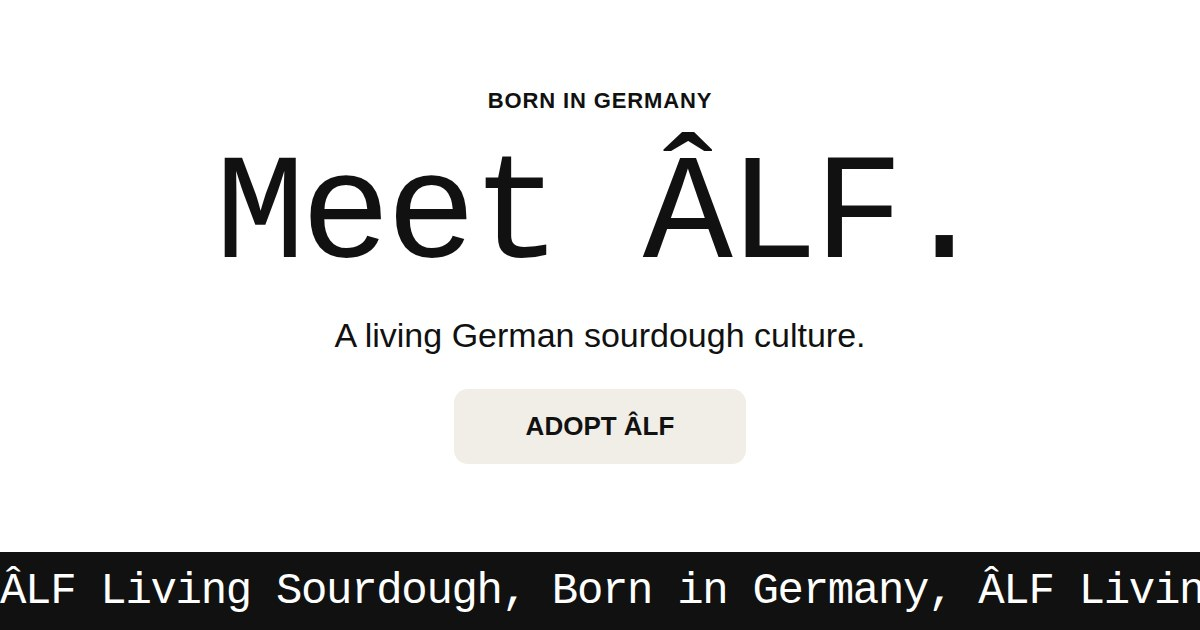
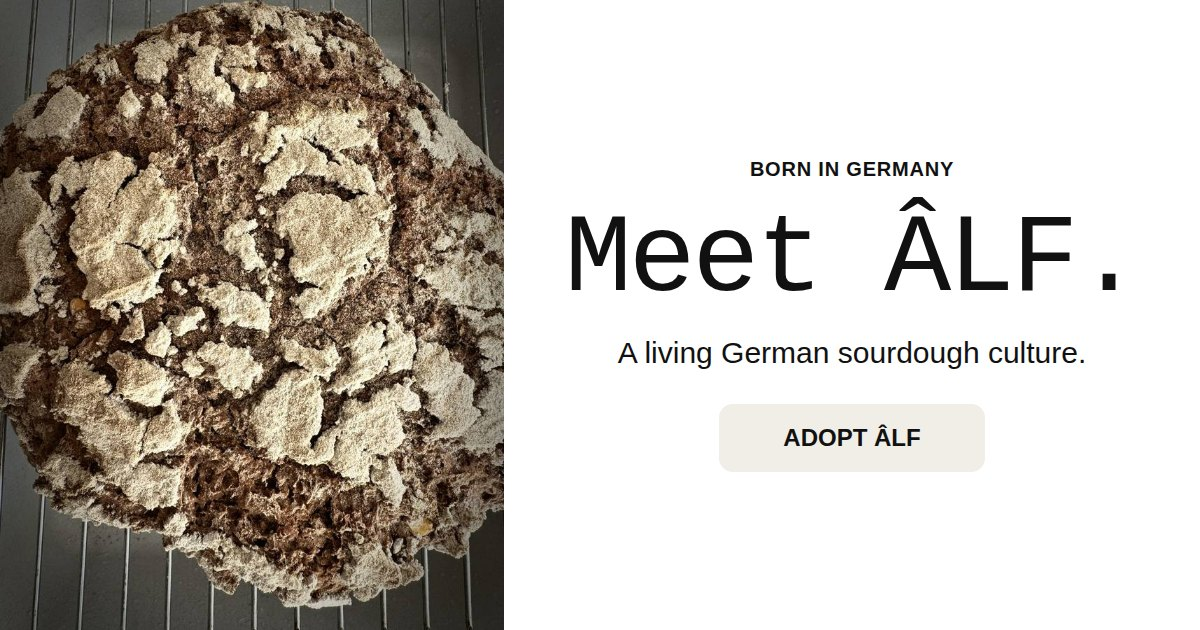
feat: real ÂLF photos — hero loaf and dough → risen → bread series
Paul's own photographs, graded (white balance, tone, 4:5 crop, grain),
nothing generated. Hero photo sizes to the screen so the adopt button
stays on the first screen down to iPhone SE. Share image now shows the
real loaf.

Claude-Session: https://claude.ai/code/session_01Th7kPzDbLiEwaHmKgtP8fL

diff --git a/index.html b/index.html
@@ -31,8 +31,9 @@
     </script>
     <script>document.documentElement.classList.add("js");</script>
     <link rel="icon" href="assets/icon.svg" type="image/svg+xml" />
-    <link rel="stylesheet" href="styles.css?v=3" />
-    <script src="app.js?v=3" defer></script>
+    <link rel="preload" as="image" href="assets/photos/bread-1080.jpg" imagesrcset="assets/photos/bread-720.jpg 720w, assets/photos/bread-1080.jpg 1080w" imagesizes="(min-width: 960px) 50vw, 100vw" />
+    <link rel="stylesheet" href="styles.css?v=4" />
+    <script src="app.js?v=4" defer></script>
   </head>
   <body>
     <a class="skip-link" href="#main">Skip to content</a>
@@ -45,6 +46,9 @@
     <main id="main">
       <!-- HERO -->
       <section class="hero" id="top" aria-labelledby="hero-title">
+        <figure class="hero-photo">
+          <img src="assets/photos/bread-1080.jpg" srcset="assets/photos/bread-720.jpg 720w, assets/photos/bread-1080.jpg 1080w" sizes="(min-width: 960px) 50vw, 100vw" width="1080" height="1350" alt="A loaf baked with ÂLF: rye crust, flour, natural cracks" fetchpriority="high" decoding="async" />
+        </figure>
         <div class="hero-copy">
           <p class="label">Born in Germany</p>
           <h1 id="hero-title" class="mono-xl">Meet ÂLF.</h1>
@@ -88,6 +92,28 @@
             <li class="step"><span class="step-no">08</span><span class="step-title">Bread.</span></li>
           </ol>
           <div class="meter" aria-hidden="true"><span></span></div>
+        </div>
+      </section>
+
+      <!-- FROM ÂLF TO BREAD: Paul's real photographs -->
+      <section class="proof" id="bread" aria-labelledby="proof-title">
+        <header class="section-head">
+          <h2 id="proof-title" class="mono-lg">From ÂLF to bread.</h2>
+          <p class="lede">No knife. No scoring. The cracks are ÂLF's own.</p>
+        </header>
+        <div class="triptych">
+          <figure class="shot">
+            <img src="assets/photos/dough-720.jpg" srcset="assets/photos/dough-720.jpg 720w, assets/photos/dough-1080.jpg 1080w" sizes="(min-width: 720px) 33vw, 80vw" width="1080" height="1350" alt="Rye dough with ÂLF, before fermentation" loading="lazy" decoding="async" />
+            <figcaption>01 Dough.</figcaption>
+          </figure>
+          <figure class="shot">
+            <img src="assets/photos/risen-720.jpg" srcset="assets/photos/risen-720.jpg 720w, assets/photos/risen-1080.jpg 1080w" sizes="(min-width: 720px) 33vw, 80vw" width="1080" height="1350" alt="The same dough, risen: the flour layer breaks open on its own" loading="lazy" decoding="async" />
+            <figcaption>02 Risen.</figcaption>
+          </figure>
+          <figure class="shot">
+            <img src="assets/photos/bread-720.jpg" srcset="assets/photos/bread-720.jpg 720w, assets/photos/bread-1080.jpg 1080w" sizes="(min-width: 720px) 33vw, 80vw" width="1080" height="1350" alt="The finished loaf with its natural cracked crust" loading="lazy" decoding="async" />
+            <figcaption>03 Bread.</figcaption>
+          </figure>
         </div>
       </section>
 

diff --git a/styles.css b/styles.css
@@ -193,28 +193,38 @@ a {
 /* ---------- hero ---------- */
 
 .hero {
-  display: grid;
-  place-items: center;
-  min-height: calc(100vh - 5.5rem);
-  min-height: calc(100svh - 5.5rem); /* the black band peeks in below */
-  padding: calc(var(--bar) + env(safe-area-inset-top) + 2rem) var(--edge) 3rem;
+  padding-top: calc(var(--bar) + env(safe-area-inset-top));
+}
+
+.hero-photo {
+  /* photo takes what is left, so headline + button always fit on the first screen */
+  height: clamp(14rem, calc(100vh - 24rem), 56vh);
+  height: clamp(14rem, calc(100svh - 24rem), 56svh);
+  overflow: hidden;
+  background: var(--night);
+}
+
+.hero-photo img {
+  width: 100%;
+  height: 100%;
+  object-fit: cover;
 }
 
 .hero-copy {
   display: grid;
   justify-items: center;
-  gap: 1.25rem;
-  width: 100%;
+  gap: 1rem;
+  padding: 2.25rem var(--edge) 3rem;
   text-align: center;
 }
 
 .hero .mono-xl {
-  font-size: clamp(3.2rem, 15vw, 9rem);
+  font-size: clamp(3rem, 14vw, 7.5rem);
 }
 
 .hero-line {
-  margin-bottom: 1rem;
-  font-size: clamp(1.15rem, 4.6vw, 1.5rem);
+  margin-bottom: 0.75rem;
+  font-size: clamp(1.1rem, 4.4vw, 1.4rem);
 }
 
 /* ---------- band ---------- */
@@ -389,6 +399,50 @@ a {
   background: var(--night-ink);
   transform: scaleX(var(--p, 0));
   transform-origin: 0 50%;
+}
+
+/* ---------- from ÂLF to bread ---------- */
+
+.proof {
+  padding: clamp(5rem, 16vw, 9rem) var(--edge);
+  text-align: center;
+}
+
+.triptych {
+  display: grid;
+  grid-auto-flow: column;
+  grid-auto-columns: 80%;
+  gap: 0.75rem;
+  margin: 3rem calc(var(--edge) * -1) 0;
+  padding: 0 var(--edge);
+  overflow-x: auto;
+  scroll-snap-type: x mandatory;
+  scroll-padding: 0 var(--edge);
+  scrollbar-width: none;
+  -webkit-overflow-scrolling: touch;
+}
+
+.triptych::-webkit-scrollbar {
+  display: none;
+}
+
+.shot {
+  scroll-snap-align: start;
+}
+
+.shot img {
+  width: 100%;
+  height: auto;
+  aspect-ratio: 4 / 5;
+  border-radius: 0.75rem;
+  object-fit: cover;
+  background: var(--beige);
+}
+
+.shot figcaption {
+  padding-top: 0.8rem;
+  font-family: var(--mono);
+  font-size: 1.1rem;
 }
 
 /* ---------- statement ---------- */
@@ -603,12 +657,41 @@ a {
 /* ---------- tablet + desktop ---------- */
 
 @media (min-width: 720px) {
+  .triptych {
+    grid-auto-flow: row;
+    grid-template-columns: repeat(3, 1fr);
+    max-width: 72rem;
+    margin: 3.5rem auto 0;
+    padding: 0;
+    overflow: visible;
+  }
+
   .ritual {
     grid-template-columns: repeat(2, 1fr);
   }
 }
 
 @media (min-width: 960px) {
+  .hero {
+    display: grid;
+    grid-template-columns: 1fr 1fr;
+    min-height: 100vh;
+    min-height: 100svh;
+  }
+
+  .hero-photo {
+    height: auto;
+    min-height: 100%;
+  }
+
+  .hero-copy {
+    align-content: center;
+  }
+
+  .hero .mono-xl {
+    font-size: clamp(3.5rem, 6vw, 6.5rem);
+  }
+
   .ritual {
     grid-template-columns: repeat(4, 1fr);
     gap: 2rem;

diff --git a/app.js b/app.js
@@ -45,7 +45,7 @@
 
   function initReveals() {
     if (motion.matches) return;
-    const els = document.querySelectorAll(".litany li, .section-head, .contents li, .ritual li, .statement .mono-lg");
+    const els = document.querySelectorAll(".litany li, .section-head, .contents li, .ritual li, .shot, .statement .mono-lg");
     const io = new IntersectionObserver(
       (entries) => {
         entries.forEach((e) => {

diff --git a/README.md b/README.md
@@ -22,7 +22,9 @@ scripts/check.mjs   pre-push check (syntax, links, sizes, brand spelling)
 
 ## Images
 
-The site currently has **no images**, on purpose: typography only. Real product photos can be added later.
+`assets/photos/` holds Paul's **real photographs** (dough → risen → bread), graded only:
+white balance, tone, contrast, crop to 4:5, light grain. Nothing generated, nothing added.
+Each file stays around 300 KB (720 px and 1080 px versions, served via `srcset`).
 No generated or AI imagery. Never.
 
 ## Local
